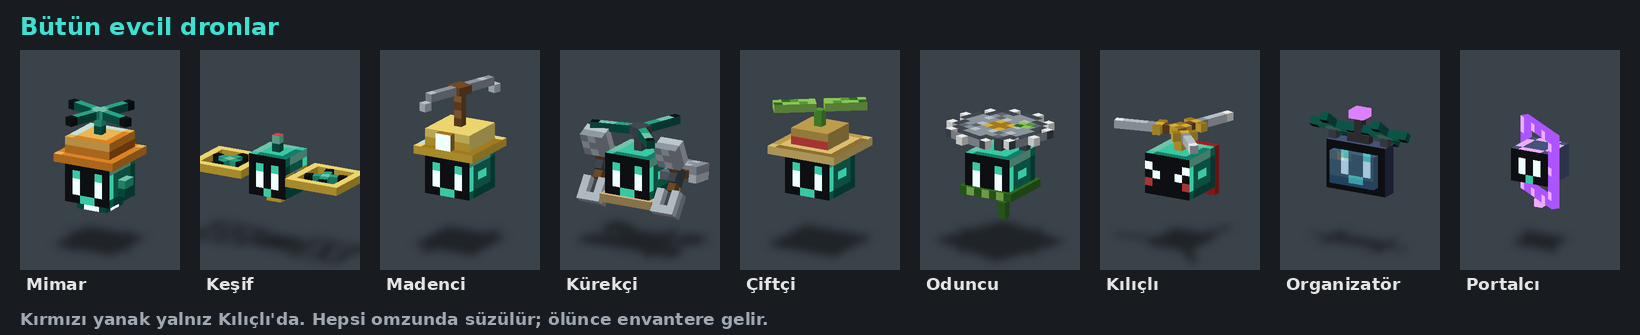
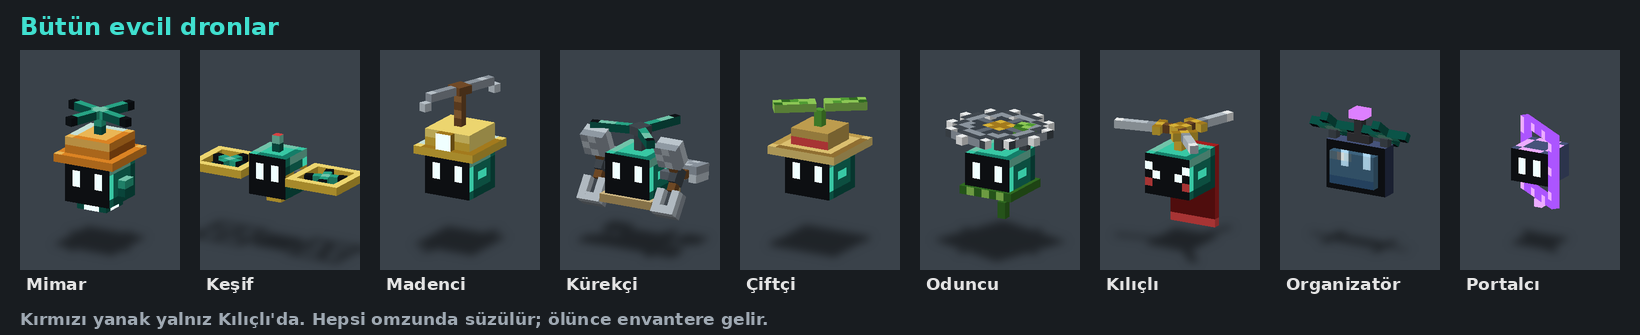
Dron yüzleri: 2 piksel gözler, ağızlar kaldırıldı; Kılıçlı uzun pelerin; Oduncu içi boş, 4 çubuklu testere
Claude-Session: https://claude.ai/code/session_016dSUtqjRQFdnbyLYXoqgnG

diff --git a/aqualit/tasarim/evcil.py b/aqualit/tasarim/evcil.py
@@ -147,10 +147,12 @@ def oduncu(f):
                 r.append('y')
             elif d > 4.4:
                 r.append('%')
-            elif (xx == zz or xx + zz == 10) and d > 2.4:
-                r.append('&')                # kesik çizgileri
+            elif d > 3.4:
+                r.append('+' if (xx * 3 + zz) % 5 == 0 else '*')   # dış halka (testere ağzı)
+            elif xx == 5 or zz == 5:
+                r.append('&')                # göbeği halkaya bağlayan 4 çubuk
             else:
-                r.append('+' if (xx * 3 + zz) % 5 == 0 else '*')
+                r.append(' ')                # içi boş
         disk.append(r)
     kutu(f, 'p_testere', 'disk', (-5.5, 10, -5.5), (5.5, 11, 5.5), base='*', top=disk, bottom=[r[:] for r in disk],
          front=[[' ', ' ', '%'] + ['*'] * 5 + ['%', ' ', ' ']], back=[[' ', ' ', '%'] + ['*'] * 5 + ['%', ' ', ' ']],
@@ -165,7 +167,10 @@ def oduncu(f):
 def kilicli(f):
     # kırmızı pelerin, kararlı bakış; tepede üç kılıçtan pervane (kabzalar göbekte, aralarında 120°)
     govde6(f, sert=True)
-    kutu(f, 'g', 'pelerin', (-3, 2, -4), (3, 8, -3), base='r', back=over(fill(6, 6, 'r'), rows('RRRRRR'), 0, 0))
+    # uzun pelerin: gövdenin altına kadar iner, ucu kırmızı şeritli
+    kutu(f, 'g', 'pelerin', (-3, -1, -4), (3, 8, -3), base='r', back=over(fill(6, 9, 'r'), rows('RRRRRR'), 0, 0),
+         front=fill(6, 9, 'q'))
+    kutu(f, 'g', 'pelerin_uc', (-3, -2, -4.5 + 0.5), (3, -1, -3), base='R')
     kutu(f, 'g', 'mil', (-0.5, 8, -0.5), (0.5, 10, 0.5), base='y')
     f.bone('p_kilic', 'g', (0, 10.5, 0))
     kutu(f, 'p_kilic', 'k_gobek', (-1, 10, -1), (1, 11, 1), base='y', top=rows('yQ', 'Qy'))
@@ -179,7 +184,7 @@ def kilicli(f):
 
 def organizator(f, cam=True):
     # dik duran ince tablet (ekranı öne bakar); cam ekranın ardında Mimar dronundaki gibi gözler; üstte iki pervane
-    on = [list(r) for r in ('kkkkkkkk', 'kkLkkLkk', 'kkWkkWkk', 'kkWkkWkk', 'kkkLLkkk', 'kkkkkkkk')]
+    on = [list(r) for r in ('kkkkkkkk', 'kkWkkWkk', 'kkWkkWkk', 'kkkkkkkk', 'kkkkkkkk', 'kkkkkkkk')]
     kutu(f, 'g', 'tablet', (-4, 3, -1), (4, 9, 1), base='1', front=on, glow='WLP',
          top=fill(8, 2, '3'), back=fill(8, 6, '2'))
     if cam:
@@ -201,7 +206,7 @@ def portalci(f):
         kutu(f, 'halka', 'h_' + nm, aa, bb, base='ğ', glow='ğüÇ',
              front=[['ü' if (i + j) % 3 == 0 else 'ğ' for i in range(w_)] for j in range(h_)],
              back=[['ü' if (i + j) % 3 == 1 else 'ğ' for i in range(w_)] for j in range(h_)])
-    kutu(f, 'g', 'kure', (-2.5, 4.5, -2.5), (2.5, 8.5, 2.5), base='3', front=rows('kkkkk', 'kWkWk', 'kWkWk', 'kkLkk'),
+    kutu(f, 'g', 'kure', (-2.5, 4.5, -2.5), (2.5, 8.5, 2.5), base='3', front=rows('kkkkk', 'kWkWk', 'kWkWk', 'kkkkk'),
          glow='WüL', top=rows('3üüü3', 'ü333ü', 'ü333ü', 'ü333ü', '3üüü3'))
     kutu(f, 'g', 'iz', (-0.5, 1, -0.5), (0.5, 2, 0.5), base='ü', glow='ü')
 

diff --git a/aqualit/addon/gen/dron.py b/aqualit/addon/gen/dron.py
@@ -31,8 +31,8 @@ BONE = {'govde': 'body', 'baret_kenar': 'hat', 'baret_tepe': 'hat', 'direk': 'ha
 
 
 def parts():
-    # v0.4: çerçevesiz tam ekran yüz: dik ışıklı gözler (üstte parlama), küçük ışıklı gülüş; kırmızı yanak yok
-    face = [list(r) for r in ('kkkkkk', 'kLkkLk', 'kWkkWk', 'kWkkWk', 'kkLLkk')]
+    # v0.4: çerçevesiz tam ekran yüz: 2 piksellik dik ışıklı gözler; ağız ve kırmızı yanak yok
+    face = [list(r) for r in ('kkkkkk', 'kWkkWk', 'kWkkWk', 'kkkkkk', 'kkkkkk')]
     side = plate(6, 5, 'M', top='H', bottom='D', left='L', right='D')
     side[2][2] = 'L'
     side[2][3] = 'L'

diff --git a/aqualit/addon/gen/kesif_dron.py b/aqualit/addon/gen/kesif_dron.py
@@ -24,7 +24,7 @@ def model():
     f.bone('root', None, (0, 4.5, 0.5))
     f.bone('govde', 'root', (0, 4.5, 0.5))
     # gövde: 5x5x5 küp; önde ekran, ekranda iki dikey göz (1x2 piksel, ışıklı)
-    ekran = rows('kkkkk', 'kLkLk', 'kWkWk', 'kWkWk', 'kkLkk')   # v0.4: çerçevesiz tam ekran
+    ekran = rows('kkkkk', 'kWkWk', 'kWkWk', 'kkkkk', 'kkkkk')   # v0.4: çerçevesiz tam ekran
     yan = panel(5, 5, 'M')
     hline(yan, 2, 'y', 0, 5)
     add_box(f, 'govde', 'g_govde', (-2.5, 3, -2), (2.5, 8, 3), base='M', glow='WL',

diff --git a/aqualit/tasarim/yardimci.py b/aqualit/tasarim/yardimci.py
@@ -15,9 +15,8 @@ def yardimci(cam=True):
     f.bone('govde', 'root', (0, 10, 0))
     # gövde
     on = fill(14, 8, 'k')                 # çerçevesiz tam ekran
-    over(on, rows('LL', 'WW', 'WW'), 4, 2)
-    over(on, rows('LL', 'WW', 'WW'), 8, 2)
-    over(on, rows('LLLL'), 5, 6)
+    over(on, rows('WW', 'WW'), 4, 3)      # 2x2 ışıklı gözler, ağız yok
+    over(on, rows('WW', 'WW'), 8, 3)
     yan = fill(14, 8, '1')
     hline(yan, 0, '3') if False else None
     for x in range(14):

diff --git a/aqualit/tasarim/ortak.py b/aqualit/tasarim/ortak.py
@@ -111,10 +111,10 @@ UC_ACI = -40
 
 # v0.4: dron yüzleri: çerçevesiz, baştan başa koyu ekran
 YUZ6 = ['kkkkkk',
-        'kLkkLk',
         'kWkkWk',
         'kWkkWk',
-        'kkLLkk']          # dik ışıklı gözler (üstte parlama), küçük ışıklı gülüş
+        'kkkkkk',
+        'kkkkkk']          # 2 piksellik dik ışıklı gözler, ağız yok
 YUZ6_SERT = ['kkkkkk',
              'Wkkkkw'.replace('w', 'W'),
              'kWkkWk',

diff --git a/aqualit/tasarim/portalci.py b/aqualit/tasarim/portalci.py
@@ -33,7 +33,6 @@ def model_portalci(cam=True, t=0.0):
     on = fill(12, 9, 'k')                 # çerçevesiz tam ekran, robot gözleri
     over(on, rows('LWL', 'WWW', 'WWW', 'LWL'), 2, 2)
     over(on, rows('LWL', 'WWW', 'WWW', 'LWL'), 7, 2)
-    over(on, rows('LL'), 5, 7)
     yan = fill(10, 9, 'M')
     for x in range(10):
         yan[0][x] = 'H'; yan[8][x] = 'D'
